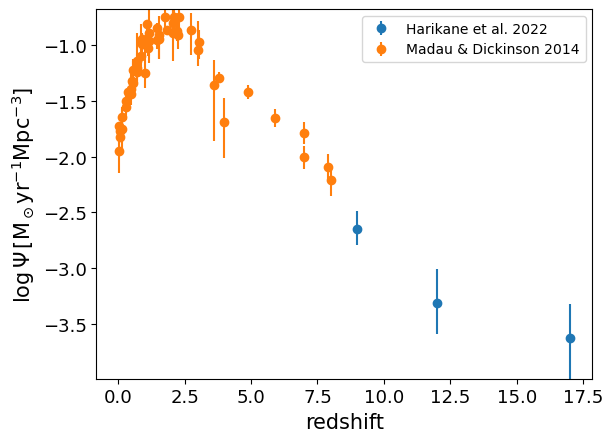
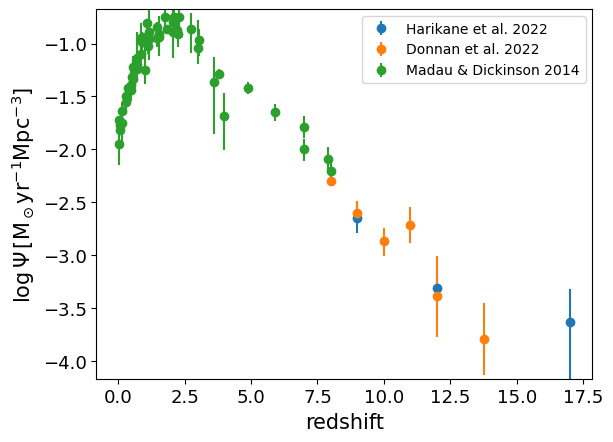
split MZR in Z_gas and Z_stars, added Donnan_et_al_2022 to sfrd, added Tacchella_et_al_2022 to UV_slope

diff --git a/docs/plots/plot_all.py b/docs/plots/plot_all.py
@@ -258,6 +258,7 @@ plot_2d("UV_luminosity_function", legend_on_side=True, xlab="M_UV")
 plot_0d("optical_depth_CMB")
 plot_1d("sfrd")
 plot_2d("Lya_spike_galaxy_correlation", xlab="proper distance [pMpc]")#, x_descriptor="proper distance [pMpc]")
-plot_2d("mass_metallicity_relation", legend_on_side=True, xlab="$\log(M_*/M_\odot)$")
+plot_2d("mass_gas_metallicity_relation", legend_on_side=True, xlab="$\log(M_*/M_\odot)$")
+plot_2d("mass_stellar_metallicity_relation", legend_on_side=True, xlab="$\log(M_*/M_\odot)$")
 plot_2d("galaxy_main_sequence", legend_on_side=True, ylog=True, xlab="$\log(M_*/M_\odot)$")
 plot_1d("UV_slope")
